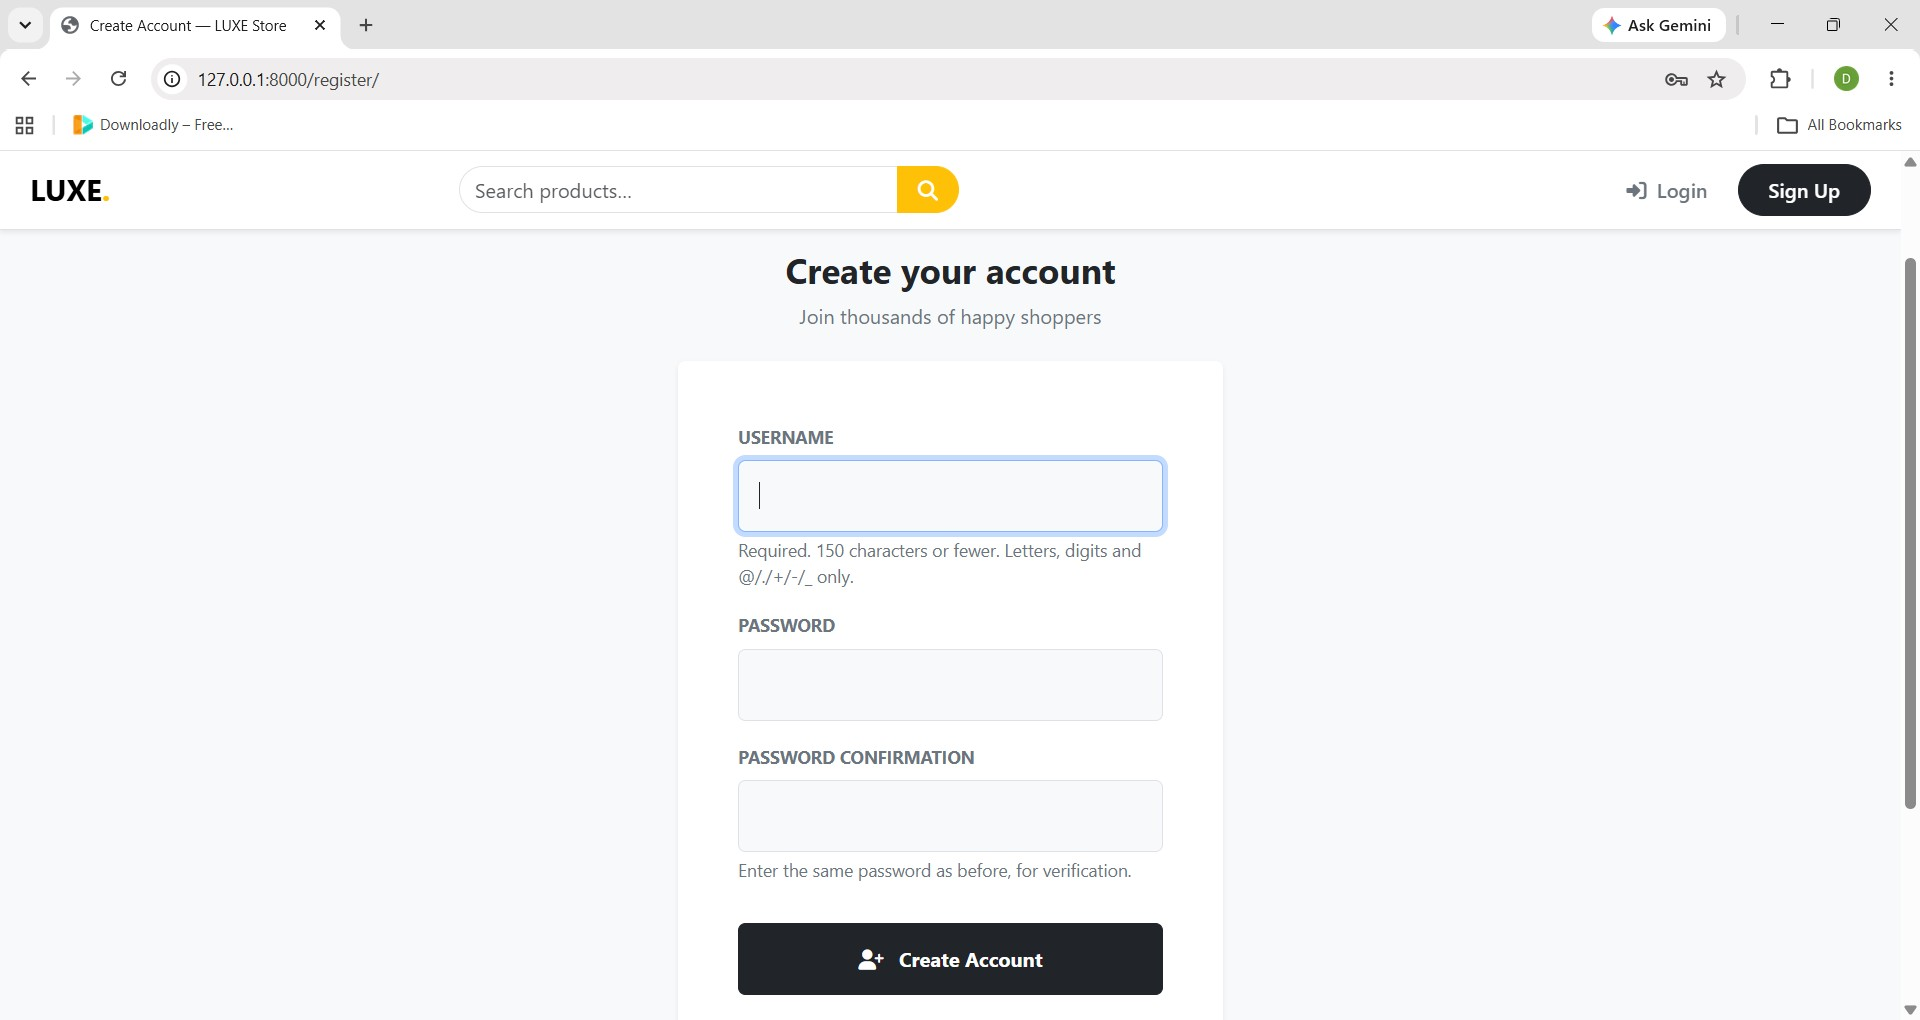
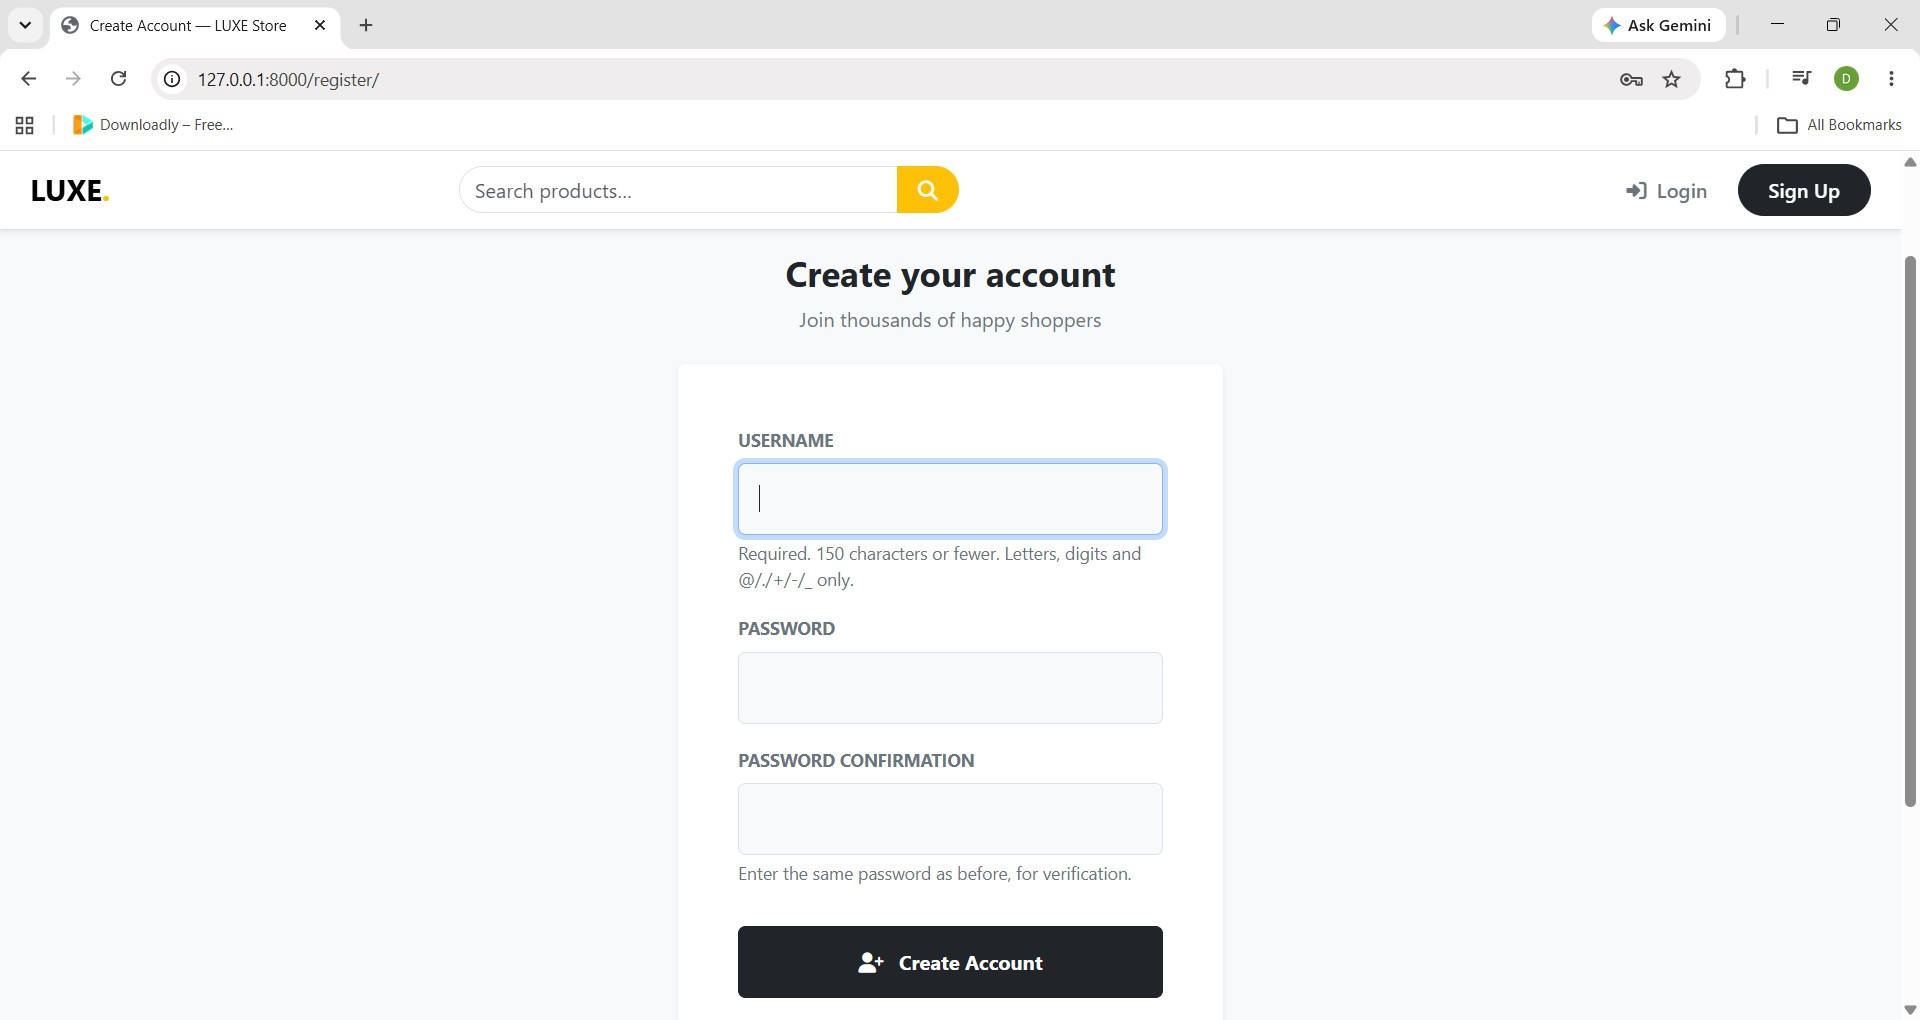
changes saved

diff --git a/store/templates/store/checkout.html b/store/templates/store/checkout.html
@@ -2,7 +2,6 @@
 {% block title %}Checkout — LUXE Store{% endblock %}
 
 {% block extra_head %}
-<script src="https://js.stripe.com/v3/"></script>
 {% endblock %}
 
 {% block content %}
@@ -25,23 +24,48 @@
             
             <form id="payment-form" method="POST">
               {% csrf_token %}
-              <div class="mb-4">
-                <label class="form-label fw-bold small text-secondary text-uppercase">Card Information</label>
-                <div id="card-element" class="form-control p-3 bg-light"></div>
-                <div id="card-errors" class="text-danger small mt-2 fw-bold" role="alert"></div>
+
+              {% if messages %}
+              <div class="mb-3">
+                {% for message in messages %}
+                <div class="alert alert-danger py-2">{{ message }}</div>
+                {% endfor %}
               </div>
-              
+              {% endif %}
+
+              <div class="mb-4">
+                <label class="form-label fw-bold small text-secondary text-uppercase">Card Number</label>
+                <input type="text" name="card_number" class="form-control p-3 bg-light" placeholder="4242 4242 4242 4242" maxlength="19" required>
+              </div>
+
+              <div class="row">
+                <div class="col-6 mb-4">
+                  <label class="form-label fw-bold small text-secondary text-uppercase">Expiry Month</label>
+                  <input type="number" name="exp_month" class="form-control p-3 bg-light" placeholder="MM" min="1" max="12" required>
+                </div>
+                <div class="col-6 mb-4">
+                  <label class="form-label fw-bold small text-secondary text-uppercase">Expiry Year</label>
+                  <input type="number" name="exp_year" class="form-control p-3 bg-light" placeholder="YYYY" min="2024" max="2050" required>
+                </div>
+              </div>
+
+              <div class="mb-4">
+                <label class="form-label fw-bold small text-secondary text-uppercase">CVC</label>
+                <input type="text" name="cvc" class="form-control p-3 bg-light" placeholder="123" maxlength="4" required>
+              </div>
+
               <div class="mb-4">
                 <p class="small text-secondary bg-light p-3 rounded border border-secondary-subtle">
                   <i class="fa fa-info-circle text-info me-2"></i>
-                  Test with card: <strong>4242 4242 4242 4242</strong>, any future date, any CVC.
+                  Test cards: <strong>4242 4242 4242 4242</strong> (success) &nbsp;|&nbsp;
+                  <strong>4000 0000 0000 0002</strong> (declined)
                 </p>
               </div>
-              
+
               <button type="submit" id="pay-btn" class="btn btn-dark w-100 py-3 fw-bold fs-5 shadow-sm">
                 <i class="fa fa-lock me-2"></i> Pay ₹{{ total|floatformat:0 }}
               </button>
-              
+
               <div class="text-center mt-3 text-secondary small">
                 <i class="fa fa-shield-alt text-success me-1"></i> Your payment is protected by Stripe 256-bit SSL encryption
               </div>
@@ -72,7 +96,7 @@
                   <div class="fw-bold text-dark text-truncate" style="font-size: 0.95rem;">{{ item.product.name }}</div>
                   <div class="text-secondary small">Qty: {{ item.quantity }}</div>
                 </div>
-                <div class="fw-bold text-dark text-end ms-2" style="font-size: 0.95rem;">₹{{ item.product.price|floatformat:0 }}</div>
+                <div class="fw-bold text-dark text-end ms-2" style="font-size: 0.95rem;">₹{{ item.total_price|floatformat:0 }}</div>
               </div>
               {% endfor %}
             </div>
@@ -101,45 +125,4 @@
   </div>
 </div>
 
-<script>
-  const stripe = Stripe('{{ stripe_key }}');
-  const elements = stripe.elements();
-  const card = elements.create('card', {
-    style: {
-      base: {
-        fontFamily: 'system-ui, -apple-system, "Segoe UI", Roboto, "Helvetica Neue", Arial, sans-serif', 
-        fontSize: '16px',
-        color: '#212529', 
-        '::placeholder': { color: '#6c757d' }
-      }
-    }
-  });
-  card.mount('#card-element');
-  card.on('change', e => {
-    document.getElementById('card-errors').textContent = e.error ? e.error.message : '';
-  });
-  
-  const form = document.getElementById('payment-form');
-  form.addEventListener('submit', async e => {
-    e.preventDefault();
-    const btn = document.getElementById('pay-btn');
-    btn.disabled = true; 
-    btn.innerHTML = '<i class="fa fa-spinner fa-spin me-2"></i> Processing…';
-    
-    const { token, error } = await stripe.createToken(card);
-    
-    if (error) {
-      document.getElementById('card-errors').textContent = error.message;
-      btn.disabled = false; 
-      btn.innerHTML = '<i class="fa fa-lock me-2"></i> Pay ₹{{ total|floatformat:0 }}';
-    } else {
-      const input = document.createElement('input');
-      input.type = 'hidden'; 
-      input.name = 'stripeToken'; 
-      input.value = token.id;
-      form.appendChild(input);
-      form.submit();
-    }
-  });
-</script>
 {% endblock %}

diff --git a/store/templates/store/cart.html b/store/templates/store/cart.html
@@ -25,37 +25,36 @@
                   <span class="text-secondary fs-4"><i class="fa fa-image"></i></span>
                 {% endif %}
               </div>
-              
+
               <div class="flex-grow-1">
                 <div class="text-warning small fw-bold text-uppercase tracking-wide mb-1">{{ item.product.category.name }}</div>
                 <h5 class="fw-bold mb-1 fs-6">{{ item.product.name }}</h5>
                 <div class="text-secondary small mb-2">₹{{ item.product.price|floatformat:0 }} each</div>
-                
-                <div class="d-flex align-items-center gap-3 flex-wrap mt-2">
-                  <form method="POST" action="{% url 'update_cart' item.pk %}" class="d-none" id="form-{{ item.pk }}">
+
+                <div class="d-flex align-items-center gap-2 mt-2">
+                  <form method="POST" action="{% url 'update_cart' item.pk %}" class="m-0">
                     {% csrf_token %}
-                    <input type="number" name="quantity" value="{{ item.quantity }}" min="0" id="qty-input-{{ item.pk }}">
+                    <input type="hidden" name="quantity" value="{{ item.quantity|add:'-1' }}">
+                    <button class="btn btn-outline-secondary btn-sm" type="submit" {% if item.quantity <= 1 %}disabled{% endif %}>−</button>
                   </form>
-                  
-                  <div class="input-group input-group-sm" style="width: 110px;">
-                    <button class="btn btn-outline-secondary" type="button" 
-                      onclick="changeQty({{ item.pk }}, -1)" 
-                      id="btn-minus-{{ item.pk }}" 
-                      {% if item.quantity <= 1 %}disabled{% endif %}>−</button>
-                    <span class="input-group-text bg-white fw-bold px-3" id="qty-display-{{ item.pk }}">{{ item.quantity }}</span>
-                    <button class="btn btn-outline-secondary" type="button" 
-                      onclick="changeQty({{ item.pk }}, 1)">+</button>
-                  </div>
-                  
-                  <a href="{% url 'remove_from_cart' item.pk %}" class="btn btn-sm btn-outline-danger border-0">
+
+                  <span class="fw-bold px-2">{{ item.quantity }}</span>
+
+                  <form method="POST" action="{% url 'update_cart' item.pk %}" class="m-0">
+                    {% csrf_token %}
+                    <input type="hidden" name="quantity" value="{{ item.quantity|add:'1' }}">
+                    <button class="btn btn-outline-secondary btn-sm" type="submit">+</button>
+                  </form>
+
+                  <a href="{% url 'remove_from_cart' item.pk %}" class="btn btn-sm btn-outline-danger border-0 ms-2">
                     <i class="fa fa-trash"></i> Remove
                   </a>
                 </div>
               </div>
-              
-              <div class="text-end ms-auto" id="price-{{ item.pk }}">
-                <div class="fw-bold fs-5 text-dark">₹<span id="total-{{ item.pk }}">{{ item.product.price|floatformat:0 }}</span></div>
-                <div class="text-secondary small" data-unit="{{ item.product.price }}">₹{{ item.product.price|floatformat:0 }} each</div>
+
+              <div class="text-end ms-auto">
+                <div class="fw-bold fs-5 text-dark">₹<span>{{ item.total_price|floatformat:0 }}</span></div>
+                <div class="text-secondary small">₹{{ item.product.price|floatformat:0 }} each</div>
               </div>
             </div>
             {% endfor %}
@@ -115,30 +114,4 @@
 
   </div>
 </div>
-
-<script>
-  function changeQty(itemId, delta) {
-    const display  = document.getElementById('qty-display-' + itemId);
-    const input    = document.getElementById('qty-input-' + itemId);
-    const minusBtn = document.getElementById('btn-minus-' + itemId);
-    const totalEl  = document.getElementById('total-' + itemId);
-    const unitPrice = parseFloat(
-      document.querySelector('#price-' + itemId + ' div[data-unit]').dataset.unit
-    );
-
-    let next = parseInt(display.textContent) + delta;
-    if (next < 1) return;
-
-    display.textContent = next;
-    input.value = next;
-    minusBtn.disabled = next <= 1;
-
-    totalEl.textContent = Math.round(unitPrice * next).toLocaleString('en-IN');
-
-    clearTimeout(window['timer_' + itemId]);
-    window['timer_' + itemId] = setTimeout(() => {
-      document.getElementById('form-' + itemId).submit();
-    }, 600);
-  }
-</script>
 {% endblock %}

diff --git a/store/templates/store/register.html b/store/templates/store/register.html
@@ -50,9 +50,4 @@
   </div>
 </div>
 
-<script>
-  document.querySelectorAll('.field-wrap input, .field-wrap select').forEach(el => {
-    el.classList.add('form-control', 'bg-light', 'p-3');
-  });
-</script>
 {% endblock %}

diff --git a/store/views.py b/store/views.py
@@ -84,20 +84,30 @@ def checkout(request):
     items = CartItem.objects.filter(cart=cart_obj)
     total = sum(i.product.price * i.quantity for i in items)
     stripe.api_key = settings.STRIPE_SECRET_KEY
+
     if request.method == 'POST':
-        token = request.POST.get('stripeToken')
-        try:
-            stripe.Charge.create(amount=int(total * 100), currency='inr', source=token)
-            order = Order.objects.create(user=request.user, total_price=total, status='Paid')
-            for item in items:
-                OrderItem.objects.create(order=order, product=item.product, quantity=item.quantity)
-            items.delete()
-            return redirect('order_success')
-        except stripe.error.StripeError as e:
-            messages.error(request, str(e))
+        card_number = request.POST.get('card_number', '').replace(' ', '')
+        TEST_CARD_TOKENS = {
+            '4242424242424242': 'tok_visa',               # Success
+            '4000000000000002': 'tok_chargeDeclined',      # Declined
+            '4000000000009995': 'tok_chargeDeclinedInsufficientFunds',  # Insufficient funds
+        }
+        token = TEST_CARD_TOKENS.get(card_number)
+        if not token:
+            messages.error(request, 'Invalid test card number. Please use one of the test cards shown below.')
+        else:
+            try:
+                stripe.Charge.create(amount=int(total * 100), currency='inr', source=token)
+                order = Order.objects.create(user=request.user, total_price=total, status='Paid')
+                for item in items:
+                    OrderItem.objects.create(order=order, product=item.product, quantity=item.quantity)
+                items.delete()
+                return redirect('order_success')
+            except stripe.error.StripeError as e:
+                messages.error(request, str(e))
+
     return render(request, 'store/checkout.html', {
         'items': items, 'total': total,
-        'stripe_key': settings.STRIPE_PUBLISHABLE_KEY
     })
 
 @login_required
@@ -118,4 +128,8 @@ def register(request):
             return redirect('home')
     else:
         form = UserCreationForm()
+        
+    for field in form.fields.values():
+        field.widget.attrs['class'] = 'form-control bg-light p-3'
+        
     return render(request, 'store/register.html', {'form': form})

diff --git a/store/models.py b/store/models.py
@@ -21,6 +21,10 @@ class CartItem(models.Model):
     cart = models.ForeignKey(Cart, on_delete=models.CASCADE)
     product = models.ForeignKey(Product, on_delete=models.CASCADE)
     quantity = models.IntegerField(default=1)
+    
+    @property
+    def total_price(self):
+        return self.quantity * self.product.price
 
 class Order(models.Model):
     user = models.ForeignKey(User, on_delete=models.CASCADE)
@@ -32,6 +36,10 @@ class OrderItem(models.Model):
     order = models.ForeignKey(Order, on_delete=models.CASCADE)
     product = models.ForeignKey(Product, on_delete=models.CASCADE)
     quantity = models.IntegerField(default=1)
+    
+    @property
+    def total_price(self):
+        return self.quantity * self.product.price
 
 class Wishlist(models.Model):
     user = models.ForeignKey(User, on_delete=models.CASCADE)

diff --git a/README.md b/README.md
@@ -1,44 +1,4 @@
-<div align="center">
-  <h1 align="center">LUXE Store — Django E-Commerce</h1>
-  <p align="center">
-    A full-featured Django e-commerce web application with a modern UI.
-    <br />
-    <a href="#features"><strong>Explore the docs »</strong></a>
-    <br />
-    <br />
-    <a href="https://github.com/dhurka832/django-ecommerce-store/issues">Report Bug</a>
-    ·
-    <a href="https://github.com/dhurka832/django-ecommerce-store/issues">Request Feature</a>
-  </p>
-</div>
-
-<!-- BADGES -->
-<div align="center">
-  <img src="https://img.shields.io/badge/Python-3.10+-blue.svg" alt="Python Version">
-  <img src="https://img.shields.io/badge/Django-5.x-green.svg" alt="Django Version">
-  <img src="https://img.shields.io/badge/Stripe-API-blueviolet.svg" alt="Stripe">
-  <img src="https://img.shields.io/badge/License-MIT-yellow.svg" alt="License">
-</div>
-
-<details>
-  <summary>Table of Contents</summary>
-  <ol>
-    <li><a href="#about-the-project">About The Project</a></li>
-    <li><a href="#features">Features</a></li>
-    <li><a href="#tech-stack">Tech Stack</a></li>
-    <li><a href="#getting-started">Getting Started</a>
-      <ul>
-        <li><a href="#prerequisites">Prerequisites</a></li>
-        <li><a href="#installation">Installation</a></li>
-      </ul>
-    </li>
-    <li><a href="#usage">Usage</a></li>
-    <li><a href="#database-models">Database Models</a></li>
-    <li><a href="#stripe-test-cards">Stripe Test Cards</a></li>
-  </ol>
-</details>
-
-## About The Project
+## Ecommerce - LUXE Store
 
 LUXE Store is a full-featured e-commerce web application built with Django. It features a modern, responsive user interface and provides all essential e-commerce functionalities, from product browsing and cart management to secure payments using Stripe.
 
@@ -48,16 +8,16 @@ LUXE Store is a full-featured e-commerce web application built with Django. It f
 - 🛍 **Product Catalog:** Browse products, search functionality, and category filtering.
 - 🛒 **Shopping Cart:** Add/remove items and manage quantities seamlessly.
 - ❤ **Wishlist:** Save favorite products for later.
-- 💳 **Secure Checkout:** Integrated with Stripe API (Test Mode Ready).
+- 💳 **Secure Checkout:** Integrated with Stripe API 
 - 📦 **Order Management:** Track order history and status.
 - 📱 **Responsive UI:** Works beautifully on both desktop and mobile devices, featuring a sticky navbar and toast notifications.
 
 ## Tech Stack
 
 * **Backend:** Django 5.x, Python
-* **Database:** SQLite (Development)
-* **Payments:** Stripe API
-* **Frontend:** HTML5, CSS3, Bootstrap 5 (via crispy-bootstrap5), Font Awesome, Google Fonts
+* **Database:** SQLite 
+* **Payments:** Stripe API 
+* **Frontend:** HTML5, CSS3, Bootstrap 5 , Font Awesome, Google Fonts
 * **Forms:** django-crispy-forms
 
 ## Getting Started
@@ -94,7 +54,6 @@ Follow these instructions to set up the project locally on your machine.
    ```bash
    pip install -r requirements.txt
    ```
-   *(Note: Ensure requirements.txt includes django, python-dotenv, stripe, django-crispy-forms, crispy-bootstrap5, Pillow)*
 
 4. **Configure environment variables**
    Create a `.env` file in the project root directory:
@@ -166,6 +125,16 @@ project/
 | `Order` & `OrderItem` | Completed purchases and order history |
 | `Wishlist` | User's saved items |
 
-## License
+## Screenshots 
 
-Distributed under the MIT License. See `LICENSE` for more information.
+<p align="center">
+  <img src="screenshots/main.jpg" alt="Main View" width="400"/>
+  <img src="screenshots/all-products.jpg" alt="Product List View" width="400"/>
+  <img src="screenshots/wishlist.jpg" alt="Wish List View" width="400"/>
+  <img src="screenshots/cart.jpg" alt="Cart View" width="400"/>
+  <img src="screenshots/checkout.jpg" alt="Checkout View" width="400"/>
+  <img src="screenshots/order-success.jpg" alt="Order Success View" width="400"/>
+  <img src="screenshots/orders.jpg" alt="Orders View" width="400"/>
+  <img src="screenshots/register.jpg" alt="Register View" width="400"/>
+  <img src="screenshots/login.jpg" alt="Login View" width="400"/>
+</p>
